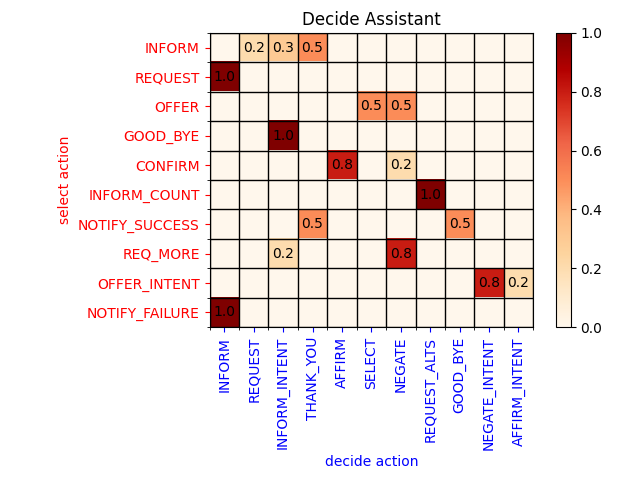
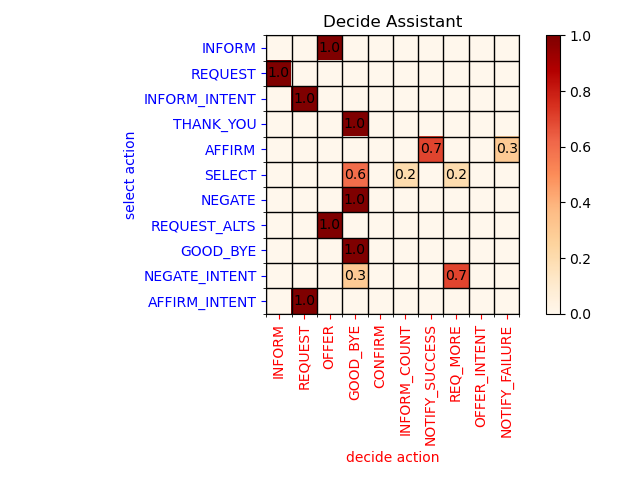
update image

Changed region(s): [[0.0938, 0.0312, 0.9375, 0.9688]]

diff --git a/usr_sys_generator.py b/usr_sys_generator.py
@@ -15,7 +15,7 @@ usr_matrix = [
     [0., 0., 0., 0., 0., 0.5, 0.5, 0., 0., 0., 0.], 
     [0., 0., 1., 0., 0., 0., 0., 0., 0., 0., 0.],
     [0., 0., 0., 0., 0.8, 0., 0.2, 0., 0., 0., 0.],
-    [0., 0., 0., 0., 0., 0., 0., 1., 0., 0., 0.],
+    [0., 0., 0., 0.5, 0., 0., 0., 0.5, 0., 0., 0.],
     [0., 0., 0., 0.5, 0., 0., 0., 0., 0.5, 0., 0.],
     [0., 0., 0.2, 0., 0., 0., 0.8, 0., 0., 0., 0.],
     [0., 0., 0., 0., 0., 0., 0., 0., 0., 0.8, 0.2],
@@ -53,7 +53,7 @@ usr_inner_matrix = [
     [0.5, 0., 0., 0., 0., 0., 0., 0., 0., 0., 0., 0.5],
     [0., 0., 0., 0., 0., 0., 0., 0., 0., 1., 0., 0.],
     [0., 0., 0., 0., 0., 0., 0., 0., 0., 0., 0., 1.],
-    [0., 0., 0.5, 0., 0., 0., 0., 0., 0.5, 0., 0., 0.],
+    [0., 0., 0.3, 0., 0., 0., 0., 0., 0.7, 0., 0., 0.],
     [0., 0., 0., 1., 0., 0., 0., 0., 0., 0., 0., 0.],
     [1., 0., 0., 0., 0., 0., 0., 0., 0., 0., 0., 0.],
     [0., 0., 0., 0., 0., 0., 0., 0., 0., 0., 0., 1.],
@@ -71,9 +71,9 @@ def get_usr_act(usr_act, schemas, domain_index):
             domain_index = np.random.choice([i for i in range(len(schemas))], 1, p=domain_transition_matrix[domain_index])[0] 
             state_d = schemas[domain_index]                            
             intent_i = random.choice(state_d["intents"]) #select intent from domain_i(state_d)
-            pprint(intent_i['name'])
-            pprint(intent_i["required_slots"])
-            pprint(intent_i["result_slots"])            
+            print('name', intent_i['name'])
+            print('required_slots', intent_i["required_slots"])
+            print('result_slots', intent_i["result_slots"])            
             #input()
             print("usr", f"{usr_act}(", intent_i["name"], ")")
         else:print("usr", usr_act)
@@ -93,27 +93,72 @@ def generate_goal(file_name):
     #initial state
     usr_idx = np.random.choice([i for i in range(len(usr_matrix[sys_idx]))], 1, p=usr_matrix[sys_idx])[0]
     sys_idx = np.random.choice([i for i in range(len(sys_matrix[usr_idx]))], 1, p=sys_matrix[usr_idx])[0]
-    while True:
-        u_act_list, s_act_list = [], []           
+    while True:          
         usr_act, sys_act = (usr_acts[usr_idx], sys_acts[sys_idx])
         usr_idx_inner = np.random.choice([i for i in range(len(usr_inner_matrix[usr_idx]))], 1, p=usr_inner_matrix[usr_idx])[0]
         sys_idx_inner = np.random.choice([i for i in range(len(sys_inner_matrix[sys_idx]))], 1, p=sys_inner_matrix[sys_idx])[0]
         usr_act_inner, sys_act_inner = (usr_acts[usr_idx_inner], sys_acts[sys_idx_inner])
-        domain_index = get_usr_act(usr_act, schemas, domain_index)
-        domain_index = get_usr_act(usr_act_inner, schemas, domain_index)
-        print()
-        
-        is_bye = get_sys_act(sys_act, [])
-        if is_bye:break
-        is_bye = get_sys_act(sys_act_inner, [])
-        print()
-        if is_bye:break
-        
-        usr_idx = np.random.choice([i for i in range(len(usr_matrix[sys_idx]))], 1, p=usr_matrix[sys_idx])[0] \
-            if sys_act_inner == "none" else np.random.choice([i for i in range(len(usr_matrix[sys_idx_inner]))], 1, p=usr_matrix[sys_idx_inner])[0]
+        old_usr_idx, old_sys_idx = int(usr_idx_inner) if usr_act_inner!='none' else int(usr_idx), \
+            int(sys_idx_inner) if sys_act_inner!='none' else int(sys_idx)
 
-        sys_idx = np.random.choice([i for i in range(len(sys_matrix[usr_idx]))], 1, p=sys_matrix[usr_idx])[0] \
-            if usr_act_inner == "none" else np.random.choice([i for i in range(len(usr_matrix[usr_idx_inner]))], 1, p=usr_matrix[usr_idx_inner])[0]
+        if usr_act != "none": 
+            if usr_act == "INFORM_INTENT":
+                domain_index = np.random.choice([i for i in range(len(schemas))], 1, p=domain_transition_matrix[domain_index])[0] 
+                state_d = schemas[domain_index]                            
+                intent_i = random.choice(state_d["intents"]) #select intent from domain_i(state_d)
+                slots_i = list(intent_i["required_slots"])
+                print(intent_i["required_slots"], intent_i["result_slots"], intent_i["optional_slots"])
+                #print('name', intent_i['name'])
+                #print('required_slots', intent_i["required_slots"])
+                #print('result_slots', intent_i["result_slots"])    
+                print("usr", f"{usr_act}(", intent_i["name"], ")")
+            elif usr_act == "INFORM":            
+                print("usr", f"{usr_act}(", slots_i, "=)")
+            elif usr_act == "REQUEST":
+                print("usr", f"{usr_act}(", slots_i, ")")
+            else:
+                print("usr", usr_act)
+
+        if usr_act_inner != "none": 
+            if usr_act_inner == "INFORM_INTENT":
+                domain_index = np.random.choice([i for i in range(len(schemas))], 1, p=domain_transition_matrix[domain_index])[0] 
+                state_d = schemas[domain_index]                            
+                intent_i = random.choice(state_d["intents"]) #select intent from domain_i(state_d)
+                slots_i = list(intent_i["required_slots"])
+                #print('name', intent_i['name'])
+                #print('required_slots', intent_i["required_slots"])
+                #print('result_slots', intent_i["result_slots"])    
+                print("usr", f"{usr_act_inner}(", intent_i["name"], ")")
+            elif usr_act_inner == "INFORM":            
+                print("usr", f"{usr_act_inner}(", slots_i, "=)")
+            elif usr_act_inner == "REQUEST":
+                print("usr", f"{usr_act_inner}(", slots_i, ")")
+            else:
+                print("usr", usr_act_inner)
+        #domain_index = get_usr_act(usr_act, schemas, domain_index)
+        #domain_index = get_usr_act(usr_act_inner, schemas, domain_index)
+        print()
+        if sys_act != "none":
+            if  sys_act == "REQUEST":
+                print("sys", f"{sys_act}(", slots_i, ")")
+            else:
+                print("sys", f"{sys_act}")
+
+        if sys_act_inner != "none": 
+            print("sys", sys_act_inner)
+
+        if sys_act == "GOOD_BYE" or sys_act_inner == "GOOD_BYE":
+            break
+        print()
+        #is_bye = get_sys_act(sys_act, [])
+        #if is_bye:break
+        #is_bye = get_sys_act(sys_act_inner, [])
+        #print()
+        #if is_bye:break
+        
+        usr_idx = np.random.choice([i for i in range(len(usr_matrix[old_sys_idx]))], 1, p=usr_matrix[old_sys_idx])[0]
+
+        sys_idx = np.random.choice([i for i in range(len(sys_matrix[old_usr_idx]))], 1, p=sys_matrix[old_usr_idx])[0]
 
 def draw_matrix(matrix, select_acts=[], output_acts=[], labels=[], img_name='default'):
     
@@ -125,8 +170,8 @@ def draw_matrix(matrix, select_acts=[], output_acts=[], labels=[], img_name='def
     ax.set_yticks(np.arange(0, len(matrix), 1))    
 
     # Labels for major ticks
-    ax.set_xticklabels(select_acts, rotation=90, color="red" if labels[0]!='Client' else 'blue')
-    ax.set_yticklabels(output_acts, rotation=0, color="red" if labels[1]!='Client' else 'blue')    
+    ax.set_xticklabels(output_acts, rotation=90, color="red" if labels[0]!='Client' else 'blue')
+    ax.set_yticklabels(select_acts, rotation=0, color="red" if labels[1]!='Client' else 'blue')    
     ax.tick_params(axis="x", bottom=True, top=False, labelbottom=True, labeltop=False, color="red" if labels[0]!='Client' else 'blue')
     ax.tick_params(axis="y", color="red" if labels[1]!='Client' else 'blue')
     ax.set_xlabel('decide action', color="red" if labels[0]!='Client' else 'blue')
@@ -144,7 +189,7 @@ def draw_matrix(matrix, select_acts=[], output_acts=[], labels=[], img_name='def
                 ax.text(j, i, str(c), va='center', ha='center')
     plt.grid(which='minor', color='k', linewidth=1)
     fig.tight_layout()
-    plt.savefig(img_name)
+    plt.savefig(os.path.join('transistion matrix', img_name))
     plt.show()
 
 if __name__ == "__main__":
@@ -152,10 +197,10 @@ if __name__ == "__main__":
 
     '''
     usr_matrix = np.array(usr_matrix)    
-    draw_matrix(usr_matrix, usr_acts[:-1], sys_acts[:-1], ['Client', 'Assistant'], 'Decide Assistant')
+    draw_matrix(usr_matrix, sys_acts[:-1], usr_acts[:-1], ['Client', 'Assistant'], 'Decide Client')
 
     sys_matrix = np.array(sys_matrix)
-    draw_matrix(sys_matrix, sys_acts[:-1], usr_acts[:-1], ['Assistant', 'Client'], 'Decide Client')
+    draw_matrix(sys_matrix, usr_acts[:-1], sys_acts[:-1], ['Assistant', 'Client'], 'Decide Assistant')
 
     usr_inner_matrix = np.array(usr_inner_matrix)
     draw_matrix(usr_inner_matrix, usr_acts, usr_acts, ['Client', 'Client'], 'Continue Decide Client')
